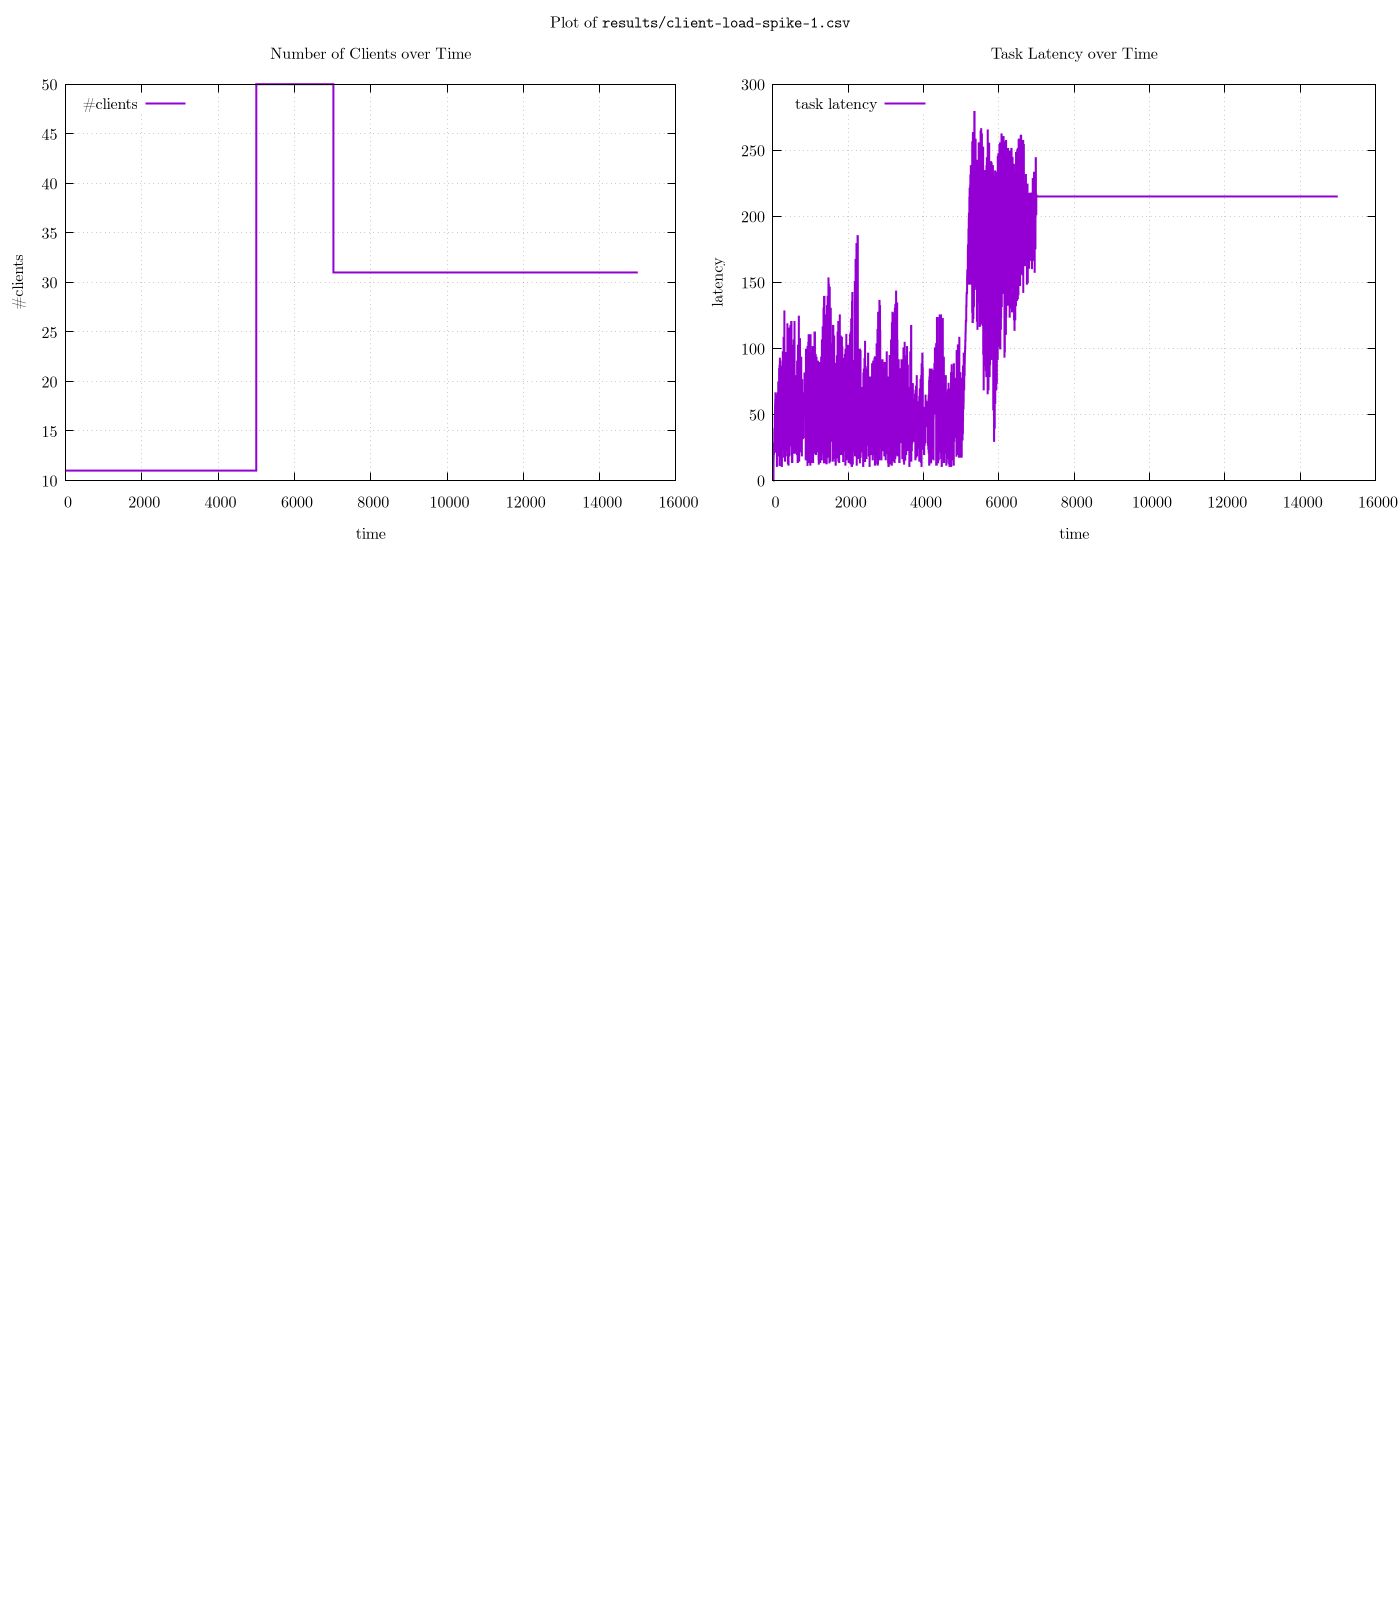
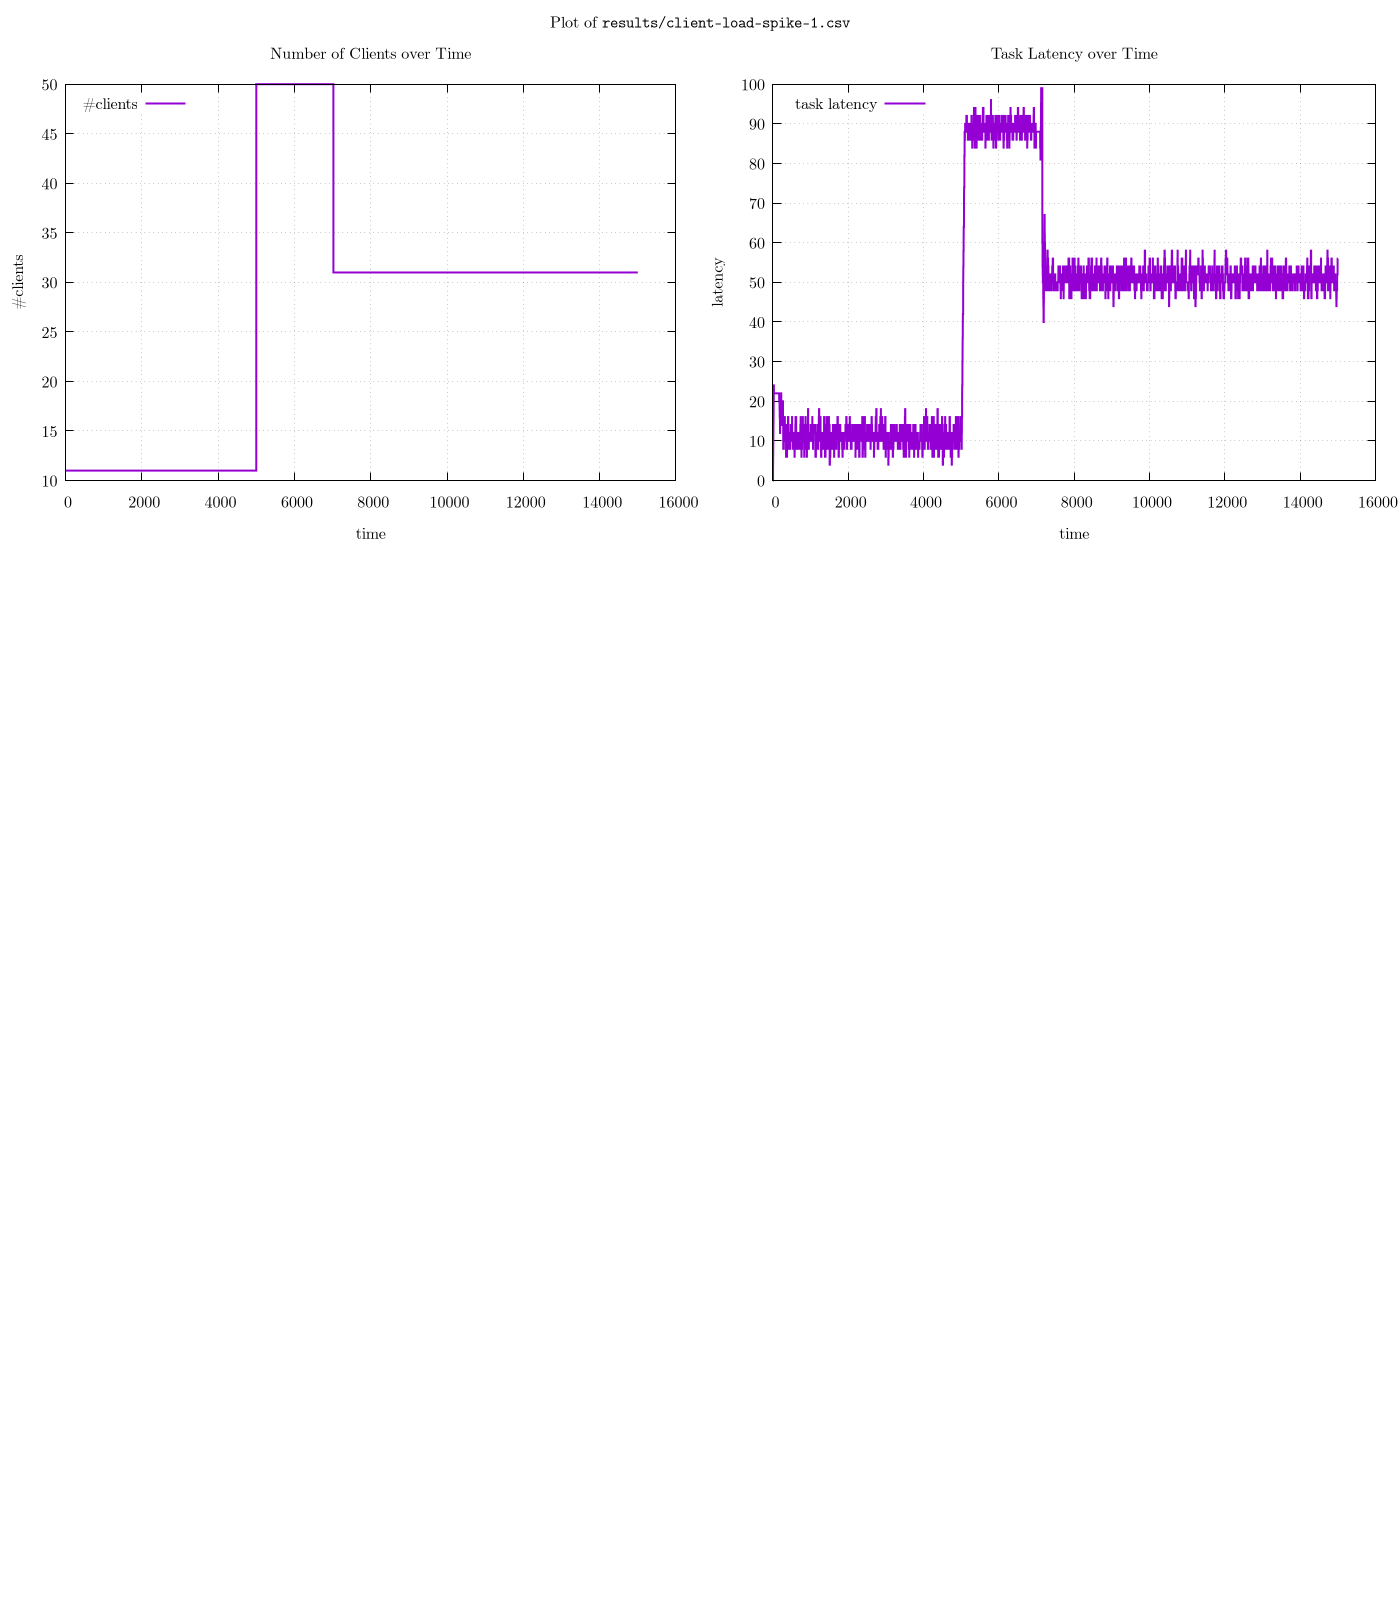
Kind of working

Changed region(s): [[0.5221, 0.0625, 0.9521, 0.3125], [0.5221, 0.125, 0.5529, 0.1562]]

diff --git a/main.py b/main.py
@@ -475,6 +475,23 @@ class ContextImpl:
     sent_messages: list[tuple[Addr, Message]]
 
 
+class _LeakDetector:
+    def __init__(self, alpha: float = 0.1, threshold: float = 0.01):
+        self.ema_diff = 0
+        self.prev_value = None
+        self.alpha = alpha
+        self.threshold = threshold
+
+    def update(self, current_memory: int):
+        if self.prev_value is not None:
+            diff = current_memory - self.prev_value
+            self.ema_diff = self.alpha * diff + (1 - self.alpha) * self.ema_diff
+        self.prev_value = current_memory
+
+    def is_leaking(self):
+        return self.ema_diff > self.threshold
+
+
 class Node:
     def __init__(self, sm: StateMachine):
         self.sm = sm
@@ -482,10 +499,16 @@ class Node:
         self.drop_hints: list[Matcher] = []
         self.fuel_per_epoch: int | None = None
         self.unlimited_fuel = False
+        self.stopped = False
+        self._detector = _LeakDetector(alpha=0.01, threshold=0.4)
+        self._addr = None
 
     def run(
         self, fuel: int, self_addr: Addr, event_loop: EventLoop
     ) -> list[tuple[Addr, Message]]:
+        self._addr = self_addr
+        if self.stopped:
+            return []
         ctx = ContextImpl(event_loop=event_loop, self_addr=self_addr, sent_messages=[])
         if self.unlimited_fuel:
             range_ = iter(int, 1)
@@ -499,9 +522,17 @@ class Node:
                 self.inbox.pop(i)
             else:
                 break
+        self._analyze_inbox_growth()
         return ctx.sent_messages
 
+    def _analyze_inbox_growth(self):
+        self._detector.update(len(self.inbox))
+        if self._detector.is_leaking():
+            warnings.warn(f"{self._addr} inbox growing. size={len(self.inbox)}")
+
     def deliver(self, msg: Message):
+        if self.stopped:
+            return
         for i, hint in enumerate(self.drop_hints):
             if hint.match(msg):
                 self.drop_hints.pop(i)
@@ -592,7 +623,7 @@ class StopAfterNodesExited:
 class EventLoop:
     def __init__(self, without_defaults: bool = False):
         self.nodes = dict[Addr, Node]()
-        self.fuel_per_epoch = 10
+        self.fuel_per_epoch = 100
         self.logs: list[LogEntry] = []
         self.new_logs: list[LogEntry] = []
         self.epoch = 0
@@ -617,7 +648,7 @@ class EventLoop:
             self.spawn(spec.addr, spec.init())
 
     def run(self, epochs: int = 1, condition: StopCondition | None = None):
-        for _ in range(epochs):
+        for _ in tqdm(range(epochs), unit="epoch", total=epochs):
             sent_messages: list[tuple[Addr, Message]] = []
             for addr, node in self.nodes.items():
                 sent_messages.extend(
@@ -639,7 +670,6 @@ class EventLoop:
                     break
 
             self.epoch += 1
-            print(self.epoch)
             self.commit_logs()
 
         return RunResult(logs=self.logs, num_epochs=self.epoch)
@@ -1050,6 +1080,8 @@ def run_experiment(
         if await ask(worker_queue_addr, Enqueue, (sender, ref)) is QueueFull:
             log("queue full", queue=worker_queue_addr)
             send(sender, ref, Err)
+        else:
+            send(sender, ref, Ok)
 
     lb_addr = Addr("load_balancer")
 
@@ -1057,6 +1089,7 @@ def run_experiment(
         n_retries: int = 3,
         timeout: int | None = None,
         policy: Callable[[int], int] = constant_retry(10),
+        deadline: int | None = None,
     ) -> bool:
         submission_id = Ref()
         for try_num in range(n_retries):
@@ -1066,7 +1099,7 @@ def run_experiment(
                         timeout,
                         lb_addr,
                         SubmitWork,
-                        deadline=spike_offset + spike_duration,
+                        deadline=deadline,
                     )
                 except TimeoutError:
                     log(
@@ -1088,12 +1121,13 @@ def run_experiment(
                     assert False
         return False
 
-    async def perform_work():
+    async def perform_work(deadline: int | None = None):
         start = now()
         success = await submit_work_wrapper(
             n_retries=num_retries,
             timeout=100,
             policy=retry_policy,
+            deadline=deadline,
         )
         if success:
             log("finished", latency=now() - start)
@@ -1119,8 +1153,16 @@ def run_experiment(
                         and now() - start_time > spike_duration
                     ):
                         break
-                    await perform_work()
+                    # Ensure that outstanding requests are cancelled after the spike.
+                    # This is needed to correctly simulate clients exiting.
+                    deadline = (
+                        spike_offset + spike_duration
+                        if now() < spike_offset + spike_duration
+                        else None
+                    )
+                    await perform_work(deadline=deadline)
                 log("client exited", client_ix=client_ix)
+                self_node().stopped = True
 
             return client
 
